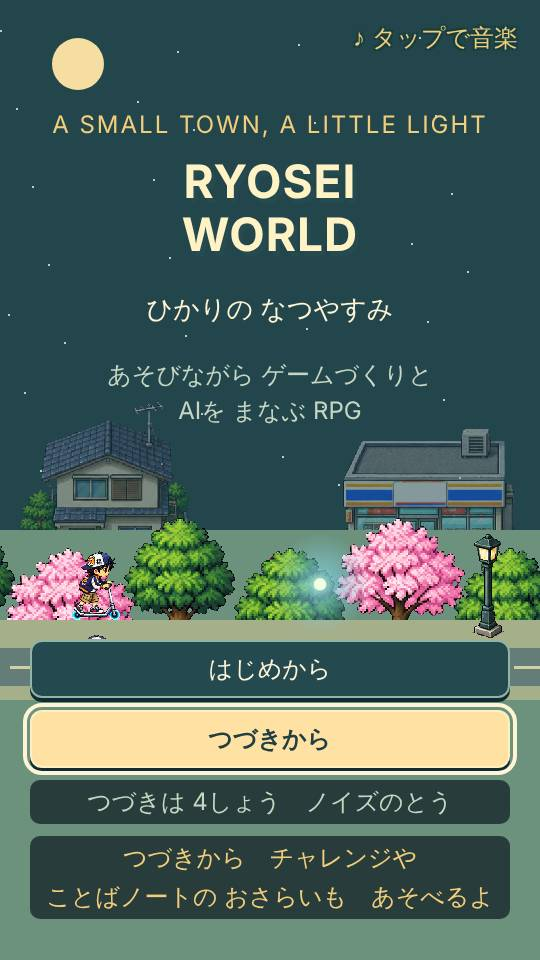
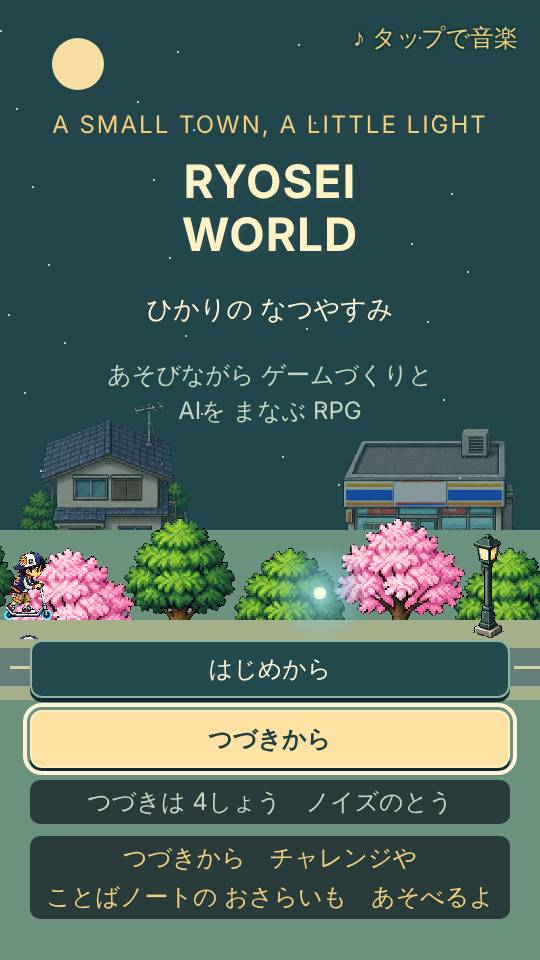
R285: 確認役の指摘で、説明の箱の外への余白をやめ、テストが実際の幅を読むようにした

Changed region(s): [[0.0, 0.5625, 0.237, 0.6875], [0.5333, 0.5625, 0.6222, 0.6562]]

diff --git a/v5/index.html b/v5/index.html
@@ -1,7 +1,7 @@
 <!doctype html>
 <html lang="ja"><head><meta charset="utf-8"><meta name="viewport" content="width=device-width, initial-scale=1, viewport-fit=cover"><meta name="theme-color" content="#172d32"><link rel="icon" href="data:,"><title>RYOSEIWORLD — ひかりの なつやすみ</title>
 <style>
-*{box-sizing:border-box}html,body{margin:0;width:100%;height:100%;overflow:hidden;background:#101e24;color:#fff5d6;font-family:'Hiragino Maru Gothic ProN','Hiragino Sans',system-ui,sans-serif;touch-action:none;user-select:none}button,input{font:inherit;font-size:24px}button{cursor:pointer;color:inherit;background:#244a50;border:2px solid #91b5a5;border-radius:12px;min-height:58px;padding:10px 16px;box-shadow:0 4px 0 #112b34}button:focus-visible{background:#37636a;outline:3px solid #f5cf78;outline-offset:2px}@media (hover:hover){button:hover{background:#37636a}}button:active{transform:translateY(2px);box-shadow:none}button:disabled{opacity:.45;cursor:default}#stage{position:fixed;left:0;top:0;width:540px;height:960px;transform-origin:0 0;overflow:hidden;background:#203f43}canvas{position:absolute;inset:0;width:540px;height:960px;image-rendering:pixelated}.screen{position:absolute;inset:0;display:none}.screen.active{display:block}[hidden]{display:none!important}.panel{background:#16353bee;border:3px solid #e1d8ad;border-radius:15px;box-shadow:0 6px 0 #10292d;padding:22px}.eyebrow{font-size:24px;letter-spacing:2px;color:#f1cd7c}.title-copy{position:absolute;top:110px;width:100%;text-align:center}.title-copy h1{font-size:46px;letter-spacing:1px;line-height:1.15;margin:16px 0;color:#fff2c4;text-shadow:4px 5px #254b50}.title-copy p{font-size:26px;line-height:1.7}.title-copy .genre-tag{font-size:24px;line-height:1.5;margin-top:10px;color:#c6d6c3;padding:0 32px;word-break:keep-all;line-break:strict}#music-hint{position:absolute;right:22px;top:22px;font-size:24px;color:#f1cd7c;text-shadow:-2px -2px #173e3c,2px -2px #173e3c,-2px 2px #173e3c,2px 2px #173e3c;pointer-events:none}.title-actions{position:absolute;left:30px;right:30px;bottom:115px;display:grid;gap:18px}.title-actions .caption{margin:0}.title-actions.with-hint{top:640px;bottom:auto;gap:12px}.primary{background:#f1cd7c;color:#213f42;border-color:#fff0c1;font-weight:700}.primary:focus-visible{background:#ffe1a4;color:#213f42}@media (hover:hover){.primary:hover{background:#ffe1a4;color:#213f42}}.primary:focus-visible{outline:4px solid #fff5d6;outline-offset:3px}.caption{font-size:24px;line-height:1.65;word-break:keep-all;line-break:strict;color:#c6d6c3;background:rgba(16,30,36,.74);border-radius:10px;padding:2px 10px;margin:0 -40px}.hud{position:absolute;left:20px;right:20px;top:24px;display:flex;flex-direction:column;align-items:flex-start;gap:8px}.hud-row{display:flex;justify-content:space-between;align-items:flex-start;gap:12px;width:100%}.map-title{font-size:26px;margin:0 0 5px}.status{font-size:24px;color:#f1cd7c;white-space:nowrap}.hud .panel{padding:12px 16px;min-width:0;flex:1}.hud-row>button{flex-shrink:0}.quest{max-width:100%;font-size:24px;line-height:1.35;color:#fff2cb;text-shadow:1px 2px #16353b;pointer-events:none;background:#16353bee;border-radius:8px;padding:4px 10px}.quest:empty{display:none}#hud .panel{transition:background-color .3s}#hud.over .panel{background:#16353b59;box-shadow:none;text-shadow:-2px -2px #173e3c,2px -2px #173e3c,-2px 2px #173e3c,2px 2px #173e3c,0 0 6px #173e3c}.bottom-bar{position:absolute;bottom:24px;left:22px;right:22px;display:flex;align-items:flex-end;justify-content:space-between;pointer-events:none}.bottom-bar button{pointer-events:auto;min-height:80px;min-width:142px}#talk-btn{transition:background-color .3s,color .3s,translate .2s}#talk-btn.idle{background:#f1cd7c4d;border-color:#fff0c1aa;color:#fff5d6;text-shadow:-2px -2px #173e3c,2px -2px #173e3c,-2px 2px #173e3c,2px 2px #173e3c}#talk-btn.behind{background:#f1cd7c1a;background-image:radial-gradient(ellipse 58% 40% at 50% 50%,#173e3cd9 55%,#173e3c00 100%);border-color:#fff0c166;color:#fff5d6;text-shadow:-2px -2px #173e3c,2px -2px #173e3c,-2px 2px #173e3c,2px 2px #173e3c,0 0 6px #173e3c}#menu-btn{transition:background-color .3s,border-color .3s}#menu-btn.behind{background:#244a5033;border-color:#91b5a588;box-shadow:none;text-shadow:-2px -2px #173e3c,2px -2px #173e3c,-2px 2px #173e3c,2px 2px #173e3c,0 0 6px #173e3c}.walk-help.behind{opacity:.55;color:#fff5d6;text-shadow:-2px -2px #173e3c,2px -2px #173e3c,-2px 2px #173e3c,2px 2px #173e3c,0 0 6px #173e3c}.walk-help.learned{opacity:0}
+*{box-sizing:border-box}html,body{margin:0;width:100%;height:100%;overflow:hidden;background:#101e24;color:#fff5d6;font-family:'Hiragino Maru Gothic ProN','Hiragino Sans',system-ui,sans-serif;touch-action:none;user-select:none}button,input{font:inherit;font-size:24px}button{cursor:pointer;color:inherit;background:#244a50;border:2px solid #91b5a5;border-radius:12px;min-height:58px;padding:10px 16px;box-shadow:0 4px 0 #112b34}button:focus-visible{background:#37636a;outline:3px solid #f5cf78;outline-offset:2px}@media (hover:hover){button:hover{background:#37636a}}button:active{transform:translateY(2px);box-shadow:none}button:disabled{opacity:.45;cursor:default}#stage{position:fixed;left:0;top:0;width:540px;height:960px;transform-origin:0 0;overflow:hidden;background:#203f43}canvas{position:absolute;inset:0;width:540px;height:960px;image-rendering:pixelated}.screen{position:absolute;inset:0;display:none}.screen.active{display:block}[hidden]{display:none!important}.panel{background:#16353bee;border:3px solid #e1d8ad;border-radius:15px;box-shadow:0 6px 0 #10292d;padding:22px}.eyebrow{font-size:24px;letter-spacing:2px;color:#f1cd7c}.title-copy{position:absolute;top:110px;width:100%;text-align:center}.title-copy h1{font-size:46px;letter-spacing:1px;line-height:1.15;margin:16px 0;color:#fff2c4;text-shadow:4px 5px #254b50}.title-copy p{font-size:26px;line-height:1.7}.title-copy .genre-tag{font-size:24px;line-height:1.5;margin-top:10px;color:#c6d6c3;padding:0 32px;word-break:keep-all;line-break:strict}#music-hint{position:absolute;right:22px;top:22px;font-size:24px;color:#f1cd7c;text-shadow:-2px -2px #173e3c,2px -2px #173e3c,-2px 2px #173e3c,2px 2px #173e3c;pointer-events:none}.title-actions{position:absolute;left:30px;right:30px;bottom:115px;display:grid;gap:18px}.title-actions.with-hint{top:640px;bottom:auto;gap:12px}.primary{background:#f1cd7c;color:#213f42;border-color:#fff0c1;font-weight:700}.primary:focus-visible{background:#ffe1a4;color:#213f42}@media (hover:hover){.primary:hover{background:#ffe1a4;color:#213f42}}.primary:focus-visible{outline:4px solid #fff5d6;outline-offset:3px}.caption{font-size:24px;line-height:1.65;word-break:keep-all;line-break:strict;color:#c6d6c3;background:rgba(16,30,36,.74);border-radius:10px;padding:2px 10px}.hud{position:absolute;left:20px;right:20px;top:24px;display:flex;flex-direction:column;align-items:flex-start;gap:8px}.hud-row{display:flex;justify-content:space-between;align-items:flex-start;gap:12px;width:100%}.map-title{font-size:26px;margin:0 0 5px}.status{font-size:24px;color:#f1cd7c;white-space:nowrap}.hud .panel{padding:12px 16px;min-width:0;flex:1}.hud-row>button{flex-shrink:0}.quest{max-width:100%;font-size:24px;line-height:1.35;color:#fff2cb;text-shadow:1px 2px #16353b;pointer-events:none;background:#16353bee;border-radius:8px;padding:4px 10px}.quest:empty{display:none}#hud .panel{transition:background-color .3s}#hud.over .panel{background:#16353b59;box-shadow:none;text-shadow:-2px -2px #173e3c,2px -2px #173e3c,-2px 2px #173e3c,2px 2px #173e3c,0 0 6px #173e3c}.bottom-bar{position:absolute;bottom:24px;left:22px;right:22px;display:flex;align-items:flex-end;justify-content:space-between;pointer-events:none}.bottom-bar button{pointer-events:auto;min-height:80px;min-width:142px}#talk-btn{transition:background-color .3s,color .3s,translate .2s}#talk-btn.idle{background:#f1cd7c4d;border-color:#fff0c1aa;color:#fff5d6;text-shadow:-2px -2px #173e3c,2px -2px #173e3c,-2px 2px #173e3c,2px 2px #173e3c}#talk-btn.behind{background:#f1cd7c1a;background-image:radial-gradient(ellipse 58% 40% at 50% 50%,#173e3cd9 55%,#173e3c00 100%);border-color:#fff0c166;color:#fff5d6;text-shadow:-2px -2px #173e3c,2px -2px #173e3c,-2px 2px #173e3c,2px 2px #173e3c,0 0 6px #173e3c}#menu-btn{transition:background-color .3s,border-color .3s}#menu-btn.behind{background:#244a5033;border-color:#91b5a588;box-shadow:none;text-shadow:-2px -2px #173e3c,2px -2px #173e3c,-2px 2px #173e3c,2px 2px #173e3c,0 0 6px #173e3c}.walk-help.behind{opacity:.55;color:#fff5d6;text-shadow:-2px -2px #173e3c,2px -2px #173e3c,-2px 2px #173e3c,2px 2px #173e3c,0 0 6px #173e3c}.walk-help.learned{opacity:0}
 /* R166: the talk window is a little see-through, so the walk help under it showed through its lines. It goes at once while someone talks and fades back after. */
 .walk-help.talking{opacity:0;transition:none}.touch-only .kbd{display:none}.walk-help{transition:opacity .6s;white-space:nowrap;font-size:24px;line-height:1.55;color:#fff4d6;text-shadow:2px 2px #173e3c;background:#16353bee;border-radius:8px;padding:4px 10px}.dialogue{position:absolute;left:20px;right:20px;bottom:28px;z-index:10;min-height:238px;padding:20px 24px;text-align:left;width:500px;font-size:27px;line-height:1.65;cursor:pointer}.speaker{display:block;font-size:24px;color:#f1cd7c;margin-bottom:8px}.dialogue-text{white-space:pre-wrap;word-break:keep-all;line-break:strict;overflow-wrap:normal;display:block;min-height:112px}.next{display:block;text-align:right;font-size:24px;color:#95d5c5}#dialogue:focus,#dialogue:focus-visible{outline:none;background:#16353bee}.modal{position:absolute;inset:0;background:#0d273ac7;z-index:8;padding:150px 26px 35px;display:flex;align-items:center}.modal>.panel{width:100%;max-height:760px;overflow:auto;display:flex;flex-direction:column}.modal>.panel>*{flex:none}.modal>.panel>#modal-copy{text-wrap:pretty;flex:0 1 auto;min-height:0;overflow:auto;overscroll-behavior:contain;scrollbar-width:thin;scrollbar-color:#e1d8ad #16353b}.modal>.panel>#modal-copy.more{border-bottom:3px dashed #e1d8ad99}.modal>.panel{position:relative}#modal-more{position:absolute;right:30px;font-size:24px;line-height:24px;padding:4px 12px;color:#f1cd7c;background:#16353b;border-radius:8px;cursor:pointer;white-space:nowrap}.modal h2{font-size:30px;margin:0 0 20px}.modal p{font-size:25px;line-height:1.6;white-space:pre-wrap}.menu-list{display:grid;gap:12px}.menu-list button{text-align:left}.row{display:flex;gap:12px}.row>*{flex:1}.name-card{position:absolute;top:310px;left:40px;right:40px;text-align:center}.name-card p{font-size:27px;line-height:1.8}.name-card input{background:#0f2d35;color:#fff7dc;border:2px solid #f1cd7c;padding:16px;width:100%;text-align:center;font-size:32px;border-radius:8px;margin-bottom:24px}.battle-top{position:absolute;top:28px;left:24px;right:24px;font-size:25px}.enemy-meter{height:8px;background:#102930;margin-top:10px;border-radius:4px;overflow:hidden}.enemy-meter i{display:block;height:100%;background:#f1cd7c}.hp-card{position:absolute;top:488px;left:24px;right:24px;padding:14px 20px;font-size:26px;display:flex;justify-content:space-between;align-items:center}.hp-number{font:700 36px ui-monospace,monospace;color:#f1cd7c;letter-spacing:3px}.battle-log{position:absolute;top:592px;left:24px;right:24px;height:150px;white-space:pre-wrap;word-break:keep-all;line-break:strict;overflow-wrap:anywhere;font-size:25px;line-height:1.5;padding:15px 20px}.commands{position:absolute;left:24px;right:24px;bottom:22px;display:grid;grid-template-columns:1fr 1fr;gap:8px}.commands button{min-height:58px;height:58px;padding:6px 16px}.commands button:last-child{grid-column:1/-1}.burst{position:absolute;left:24px;right:24px;top:405px;text-align:center;font-size:26px;background:#173a45e8;border-radius:10px;padding:12px;color:#ffe09d}.ending-card{position:absolute;top:220px;left:36px;right:36px;text-align:center}.ending-card h2{font-size:38px;line-height:1.65}.ending-card p{font-size:25px;line-height:1.8}.ending-card button{margin-top:28px}.ending-bg{width:100%;height:220px;object-fit:cover;border-radius:12px;margin:14px 0 6px;border:3px solid #e1d8ad;display:block}.epilogue-card{position:absolute;top:260px;left:40px;right:40px;text-align:center}.epilogue-card p{font-size:27px;line-height:1.8;white-space:pre-line;min-height:150px}.epilogue-card input{background:#0f2d35;color:#fff7dc;border:2px solid #f1cd7c;padding:16px;width:100%;text-align:center;font-size:30px;border-radius:8px;margin-bottom:24px}.epilogue-card button{margin-top:8px}#toast{position:absolute;top:200px;left:30px;right:30px;text-align:center;font-size:24px;padding:14px;z-index:15;pointer-events:none}#pause{position:absolute;inset:0;background:#122d39e8;z-index:30;display:flex;flex-direction:column;align-items:center;justify-content:center;font-size:30px;gap:24px}#loading{position:absolute;inset:0;background:#172d32;z-index:40;display:grid;place-items:center;font-size:26px}#stage.paused *{animation-play-state:paused!important}.batt{display:inline-block;position:relative;width:32px;height:18px;border:3px solid currentColor;border-radius:4px;margin:0 7px 0 10px;vertical-align:-1px}.batt::after{content:"";position:absolute;right:-8px;top:3px;width:4px;height:6px;background:currentColor;border-radius:0 2px 2px 0}.batt i{position:absolute;left:1px;top:1px;bottom:1px;width:22px;background:currentColor}#screen-battle.casting .battle-top,#screen-battle.casting .hp-card,#screen-battle.casting .battle-log,#screen-battle.casting .commands{opacity:.35;transition:opacity .2s}#backdrop{position:fixed;left:0;top:0;width:100vw;height:100vh;object-fit:cover;filter:blur(14px) brightness(.5) saturate(1.1);transform:scale(1.1);image-rendering:auto}#stage.compact .dialogue{left:8px;right:8px;width:524px;font-size:32px;padding:16px 18px}#stage.compact .speaker{font-size:30px}#stage.compact .next{font-size:26px}#stage.compact .map-title,#stage.compact .status{font-size:31px}#stage.compact .quest{font-size:28px}#stage.compact .hud .panel{padding:10px 12px}#stage.compact .batt{transform:scale(1.25);margin:0 12px 0 14px}#stage.compact .battle-log{font-size:28px;line-height:1.3;padding:6px 16px;top:600px;height:148px}#stage.compact .commands{bottom:10px}#stage.compact #toast{font-size:31px}#stage.compact #menu-btn{font-size:24px;padding:8px 10px}
 .word-card{position:absolute;left:18px;right:18px;z-index:16;font-size:24px;line-height:1.3;text-align:left;padding:10px 14px;word-break:keep-all;overflow-wrap:normal;line-break:strict;box-shadow:none}.word-card span{display:block}.word-card .word-head{display:flex;justify-content:space-between;align-items:baseline;gap:12px}.word-card .word-head span{display:inline}.word-card .word-who{flex:none;color:#bfd3cf;border:2px solid #bfd3cf66;border-radius:6px;padding:0 8px;line-height:1.2}.word-card .word-title{color:#f1cd7c}.modal .panel{touch-action:pan-y;overscroll-behavior:contain}.modal p,.menu-list button{word-break:keep-all;overflow-wrap:normal;white-space:pre-wrap}.word-kind{font-size:26px;margin:16px 0 0}.word-detail{font-size:24px;line-height:1.5;word-break:keep-all}.word-detail h3{font-size:24px;margin:16px 0 4px}.word-detail p{font-size:24px;margin:0}.word-detail code{font-size:24px;white-space:pre-wrap;overflow-wrap:anywhere}

diff --git a/autodev/ROADMAP.md b/autodev/ROADMAP.md
@@ -289,7 +289,7 @@
 - [x] R282 | 町や部屋の灰色の守護霊が光の輪の上で白いほこりに見えたので、灰色を少し濃くし、ふちを付けた | tools/smoke_v5.cjs で全章を通し、スクショを確認役に見せて気になる所を挙げさせ、一番大きい1つを直す。直した所の前と後のスクショがある
 - [x] R283 | BUG KING 戦で、足もとの黒い影が夜の町の暗い塀に沈み、ボスが宙に浮いて見えたので、足もとにボスの色の薄い光と細い線を足した | tools/smoke_v5.cjs で全章を通し、スクショを確認役に見せて気になる所を挙げさせ、一番大きい1つを直す。直した所の前と後のスクショがある
 - [x] R284 | ネオンの「かずの ひと」4人がほかの人より頭ひとつ大きかったので、ミオと同じ背にした | tools/smoke_v5.cjs で全章を通し、スクショを確認役に見せて気になる所を挙げさせ、一番大きい1つを直す。直した所の前と後のスクショがある
-- [ ] R285 | 遊んで一番気になる所を1つ直す | tools/smoke_v5.cjs で全章を通し、スクショを確認役に見せて気になる所を挙げさせ、一番大きい1つを直す。直した所の前と後のスクショがある
+- [x] R285 | タイトルで、つづきの説明の箱がボタンより左右に広くはみ出して見えたので、ボタンを箱と同じ幅にした | tools/smoke_v5.cjs で全章を通し、スクショを確認役に見せて気になる所を挙げさせ、一番大きい1つを直す。直した所の前と後のスクショがある
 
 ## くりかえし
 

diff --git a/autodev/last_run.md b/autodev/last_run.md
@@ -1,6 +1,6 @@
-- 確認役が全章のスクショを見て、ネオンの「かずの ひと」が大きすぎると挙げた
-- 4人の高さを100から76にし、体がミオと同じ66pxくらいになった。前と後のスクショで確かめた
-- 「呼び出す」の目当てがフィールドに出る件は確認用の画面だけで起きるので直さなかった
-次: ボス戦の始めに字が3つ重なる件は R173 の決まり待ちなので、ほかの気になる所を見る
-時刻: 2026-10-27 20:47
+- 確認役が全章のスクショを見て5つ挙げ、タイトルの幅のずれを直した
+- ボタンと説明の箱を、どちらも左右30pxの同じ幅にそろえ、前と後のスクショで確かめた
+- こうえんの看板の大きさは、字を24px以上に保つためなので直さなかった
+次: ネオンの上の建物が上の表示に隠れる件か、とう1Fの出口の札が2枚に見える件を見る
+時刻: 2026-10-27 21:52
 - 鍵のブランチは起動の指示（claude/autodev- 以外へ push しない）に合わせ、返す push はしなかった
